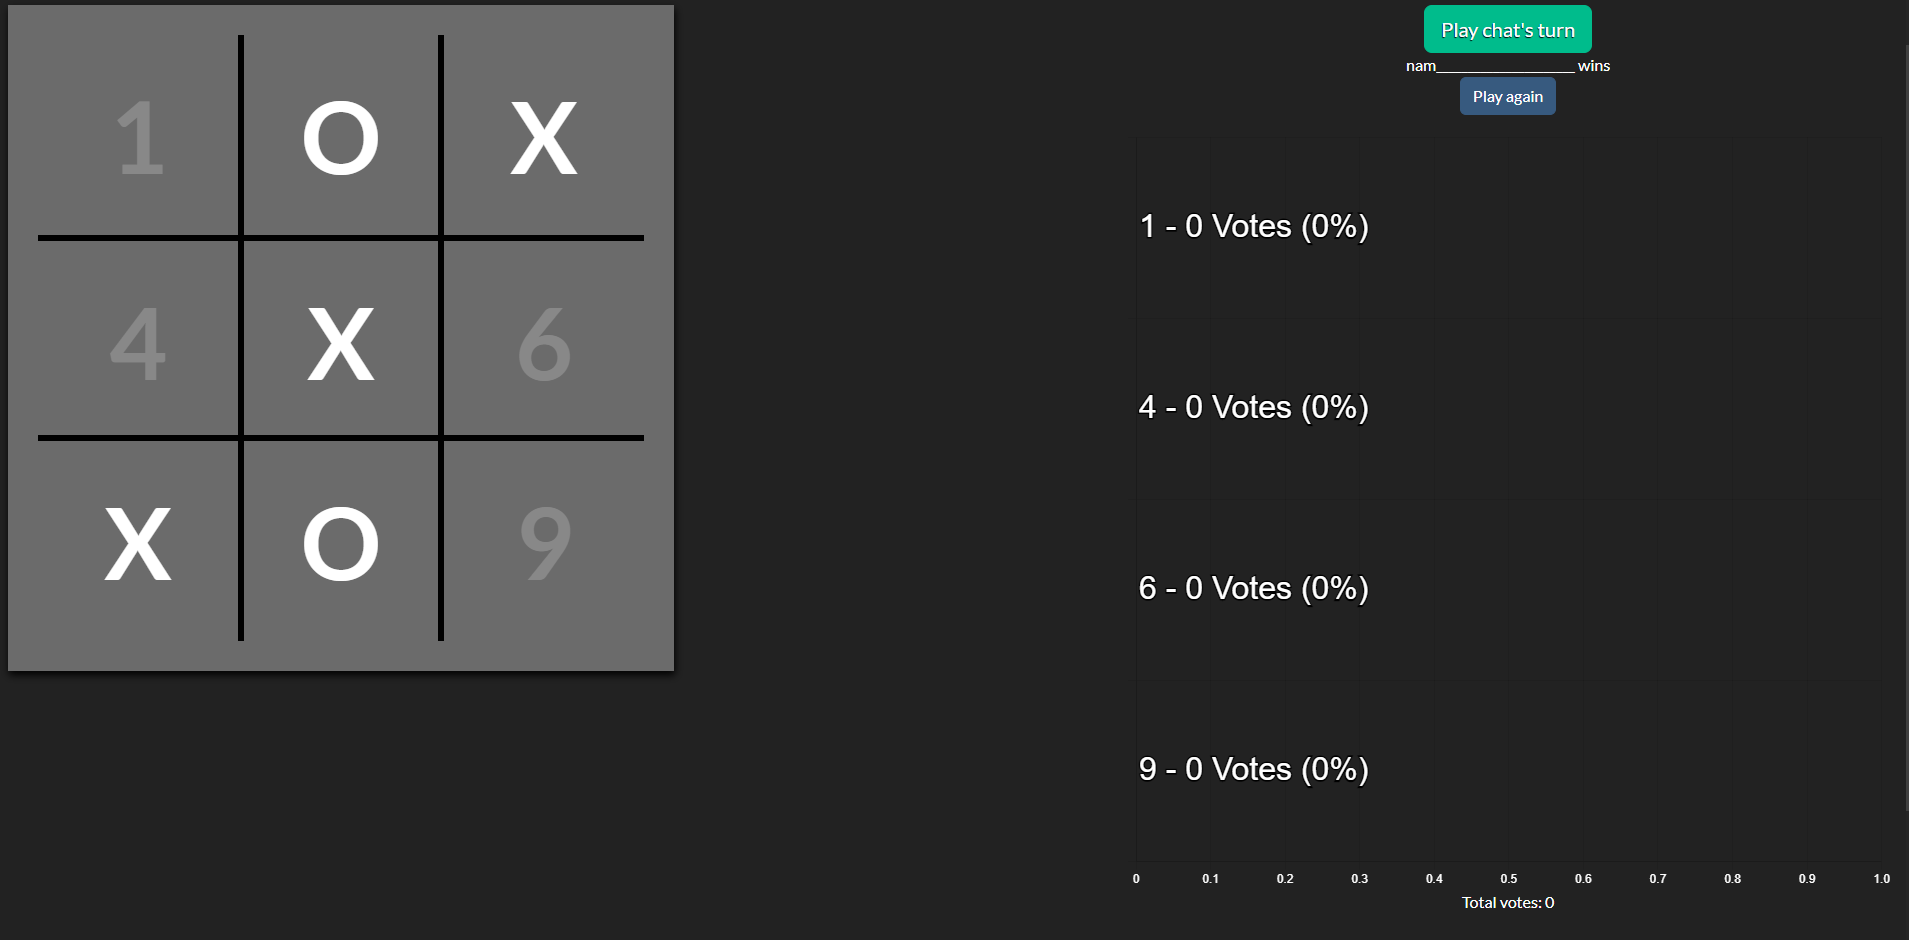
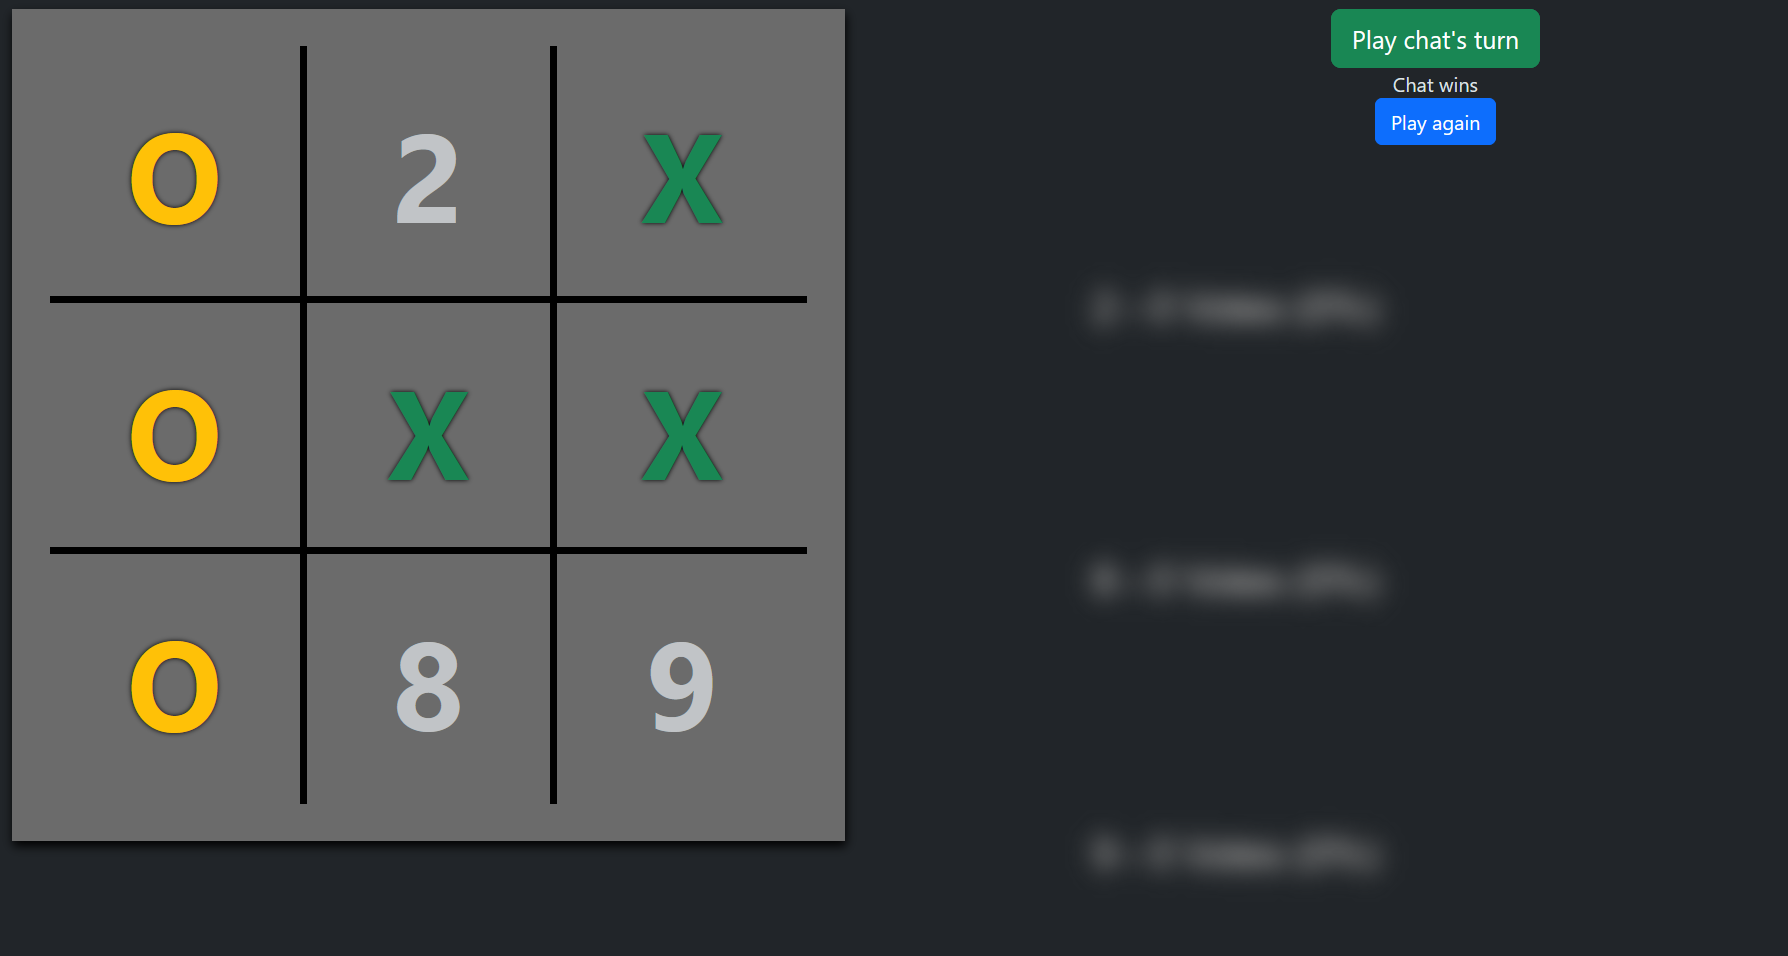
ttt: add some colors onto the board

diff --git a/games/tictactoe/tictactoe.js b/games/tictactoe/tictactoe.js
@@ -275,11 +275,17 @@ let TTT = {
     [0, 4, 8],
     [2, 4, 6],
   ],
+  pieceClasses: {
+    X: "text-success",
+    O: "text-warning",
+  },
 }; //TTT
 
 function updateGameBoard(index, value, el) {
   TTT.gameBoard[index] = value;
   el.html(value);
+  el.addClass([TTT.pieceClasses[value], "text-shadow"]);
+
   let donk = document.getElementsByClassName("choices");
   for (let i = 0, j = donk.length; i < j; i++) {
     donk[i].innerHTML = 0;
@@ -291,6 +297,7 @@ function updateGameBoard(index, value, el) {
 
 function reset() {
   init();
+  TTT.squares.removeClass(["text-shadow"].concat(Object.values(TTT.pieceClasses)));
   document.getElementById("totalvotesttt").innerHTML = `Total votes: 0`;
   document.getElementById("tttoutput").innerHTML = "";
   document.getElementById("tttchartCanvas").classList = "blur";

diff --git a/games/tictactoe/tictactoe.css b/games/tictactoe/tictactoe.css
@@ -67,6 +67,10 @@ body {
   position: absolute;
 }
 
+.text-shadow {
+  text-shadow: 0px 0px 4px #000000;
+}
+
 .wrapper {
   width: 666px;
   padding: 30px;
